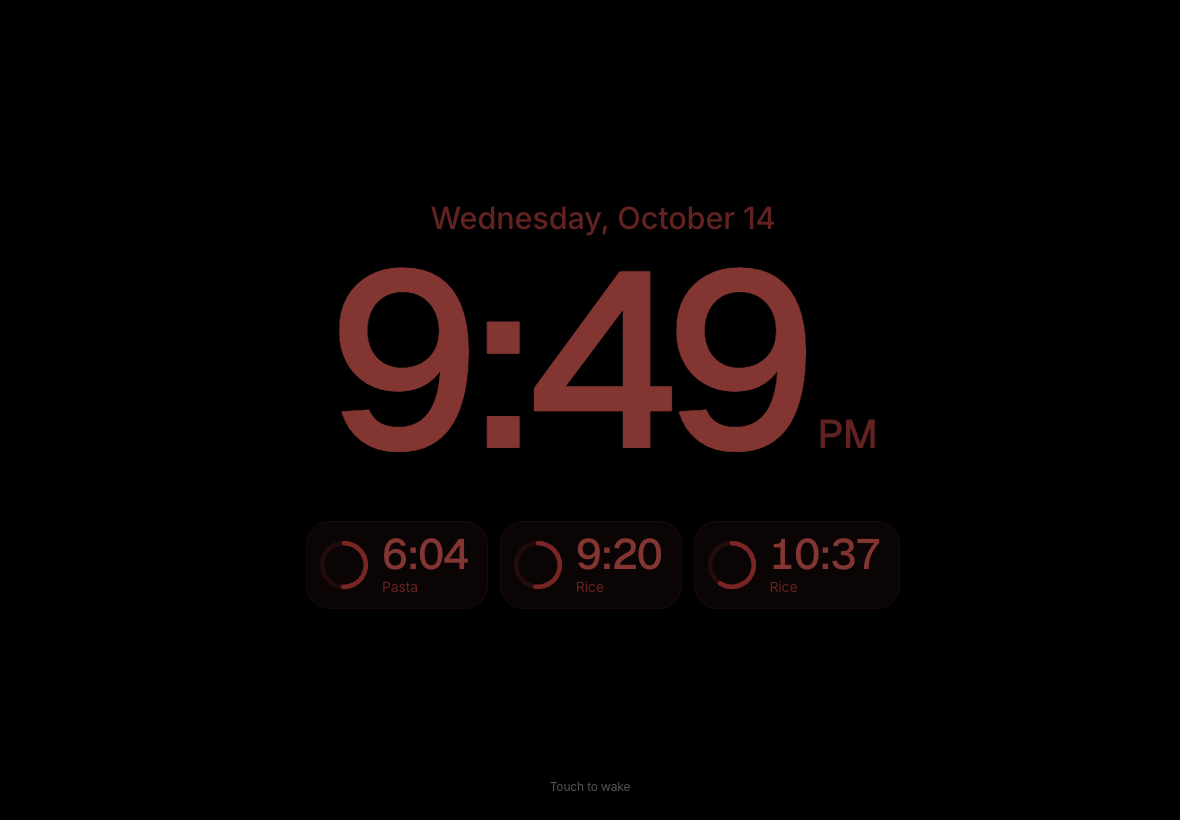
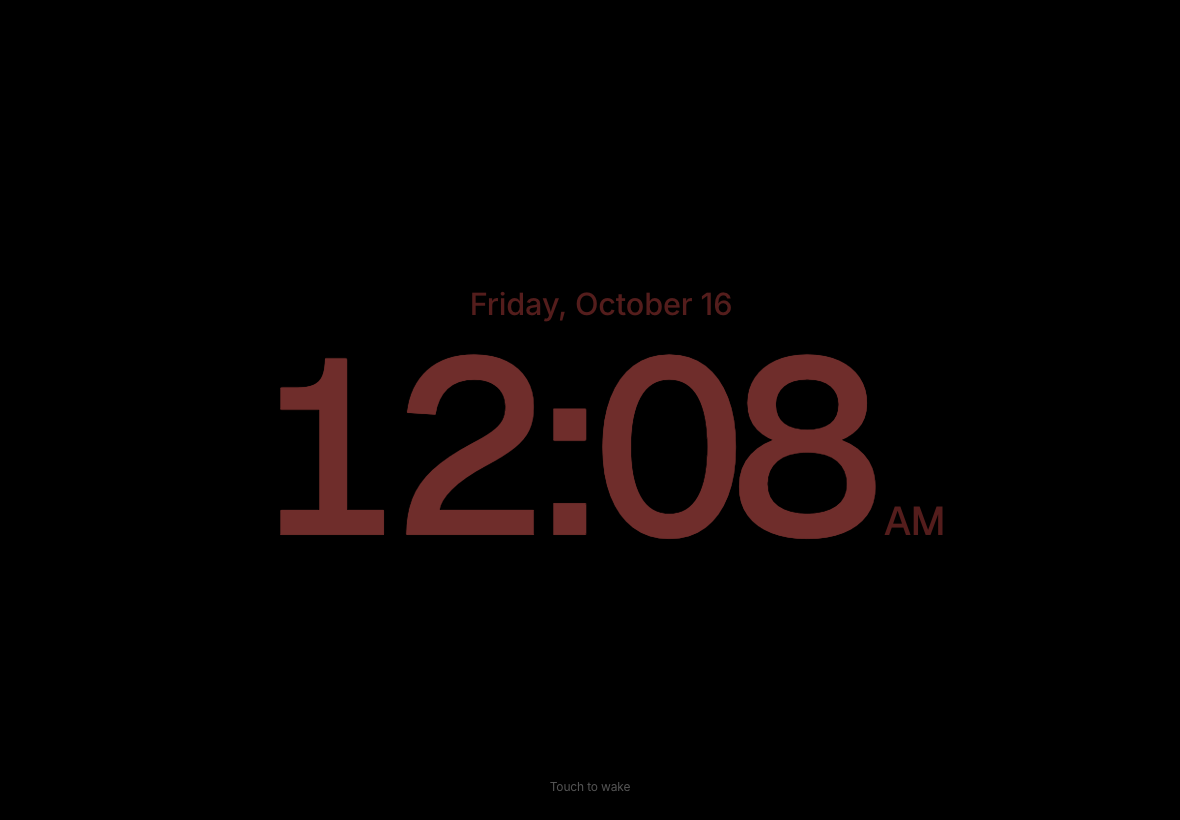
Real diagrams, a share thumbnail, and screenshots without timers
- docs/diagrams: eight drawn diagrams (how Hearth connects, where it runs,
  a tap end to end, live updates, the wall tablet, Activity, opening the
  home, and the two ways to reach Matter) replace the code-drawn ones.
- A share thumbnail of the dashboard for links, with Open Graph and Twitter
  card metadata.
- Screenshots retaken with no timers or plants; the tall full-page shot and
  the timer, plant, and assistant shots are gone; the wall clock is shown in
  its default and a warm colour.

Changed region(s): [[0.2136, 0.3049, 0.8237, 0.7317], [0.3661, 0.2439, 0.6712, 0.3049]]

diff --git a/src/app/layout.tsx b/src/app/layout.tsx
@@ -8,9 +8,15 @@ import "./globals.css";
 const geist = Geist({ variable: "--font-geist", subsets: ["latin"] });
 const inter = Inter({ variable: "--font-inter", subsets: ["latin"] });
 
+const SITE = process.env.BETTER_AUTH_URL ?? (process.env.VERCEL_PROJECT_PRODUCTION_URL ? `https://${process.env.VERCEL_PROJECT_PRODUCTION_URL}` : "http://localhost:3000");
+const DESCRIPTION = "A calm dashboard for your home: lights, locks, climate, and cameras from Home Assistant and Matter, on any screen.";
+
 export const metadata: Metadata = {
+  metadataBase: new URL(SITE),
   title: { default: "Hearth", template: "%s · Hearth" },
-  description: "A calm dashboard for your home: climate, cameras, lights, and Matter devices.",
+  description: DESCRIPTION,
+  openGraph: { type: "website", siteName: "Hearth", title: "Hearth", description: DESCRIPTION },
+  twitter: { card: "summary_large_image", title: "Hearth", description: DESCRIPTION },
   icons: { icon: "/icon.svg", apple: "/icons/icon-180.png" },
   appleWebApp: { capable: true, title: "Hearth", statusBarStyle: "black-translucent" },
 };

diff --git a/docs/guide.md b/docs/guide.md
@@ -1,17 +1,14 @@
 # How Hearth works
 
-A tour of the app, screen by screen, then how the pieces behind it talk to each other. The diagrams are [Mermaid](https://mermaid.js.org), which GitHub draws in place.
+A tour of the app, screen by screen, then how the pieces behind it fit together.
 
 - [The screens](#the-screens)
-- [The big picture](#the-big-picture)
+- [How Hearth connects](#how-hearth-connects)
 - [Where Hearth runs](#where-hearth-runs)
 - [A tap, end to end](#a-tap-end-to-end)
 - [How every screen stays live](#how-every-screen-stays-live)
-- [Widgets and household items](#widgets-and-household-items)
-- [Timers, from a word to a ring](#timers-from-a-word-to-a-ring)
-- [The wall tablet](#the-wall-tablet)
-- [Activity](#activity)
-- [Automations](#automations)
+- [The wall tablet](#the-wall-tablet-1)
+- [Activity](#activity-1)
 - [Who can open the home](#who-can-open-the-home)
 
 ## The screens
@@ -20,27 +17,21 @@ A tour of the app, screen by screen, then how the pieces behind it talk to each 
 
 The dashboard is a grid you build yourself. It starts empty; **Add tile** picks what a tile is, **Edit** drags, resizes, and restyles, and the room tabs filter it. A tile's colour is the device's own colour while it is on: a light's glow, a fan's teal.
 
-![The dashboard](screenshots/dashboard-full.png)
+![The dashboard](screenshots/dashboard.png)
 
-![Dashboard in dark mode](screenshots/dashboard-dark.png)
+![The dashboard in dark mode](screenshots/dashboard-dark.png)
 
-<p align="center"><img src="screenshots/phone.png" alt="Dashboard on a phone" width="390"></p>
+<p align="center"><img src="screenshots/phone.png" alt="The dashboard on a phone" width="390"></p>
 
-In **Edit**, each tile has a **Customize** button: its size, icon, colour, what press and hold does, and settings that belong to its kind, such as timer presets or an energy price.
+The things you reach for most sit one tap away: lights that dim and glow in their own colour, plugs, the front door, and the garage.
+
+![Quick controls](screenshots/quick-controls.png)
+
+### Customize a tile
+
+In **Edit**, each tile has a **Customize** button: its size, icon, colour, what press and hold does, and settings that belong to its kind. An on/off device can be shown as a light, a switch, or a fan, for a light switch Home Assistant files as a fan.
 
 ![Customizing a tile](screenshots/customize.png)
-
-### Household widgets
-
-Widgets keep the things a household juggles: bins, medications, notes, plants, packages, Wi-Fi for guests, and timers. They save the moment you change them, so a note or a plant shows up straight away on every screen.
-
-![Timers side by side](screenshots/timers.png)
-
-![Plants in a grid](screenshots/plants.png)
-
-- **Timers**: one timer fills its tile as a dial. Two to four sit side by side, each in its own colour, and the dial itself starts and pauses. Presets ("Eggs, 7 min") are set once per tile under Customize and sit before the plain lengths.
-- **Plants**: as many to a row as the tile is wide, thirstiest first. Tap the drop when you water one.
-- **Medications**: what is left today first, missed doses flagged, and the supply counting down as doses are ticked off.
 
 ### Activity
 
@@ -58,9 +49,7 @@ When, only if, then: a time, sunrise or sunset, or a device changing; only after
 
 ### The assistant and voice
 
-**Ask Hearth** (or Cmd or Ctrl J) opens a chat; the microphone beside it starts listening straight away. "Set a 10 minute timer for the pasta" works on the device itself, with no AI key. Everything else ("dim the kitchen to 30%") goes to the assistant you connect in Settings. While Hearth listens, a glow from [voice-glow](https://libraries.dev) rises with your voice.
-
-![Assistant](screenshots/assistant.png)
+**Ask Hearth** (or Cmd or Ctrl J) opens a chat; the microphone beside it starts listening straight away. Everyday requests ("dim the kitchen to 30%") go to the assistant you connect in Settings. While Hearth listens, a glow from [voice-glow](https://libraries.dev) rises with your voice.
 
 <p align="center"><img src="screenshots/voice.png" alt="The voice glow while Hearth listens" width="440"></p>
 
@@ -72,73 +61,24 @@ Connections, cameras, calendars, assistants, alerts, the household, the wall tab
 
 ### The wall tablet
 
-Turn on **Settings, Wall tablet** on the tablet itself. It keeps the screen on, rests on the date over a large clock with the running timers and what needs doing next as cards, turns a dim red at night, and brings a finished timer up over everything.
+Turn on **Settings, Wall tablet** on the tablet itself. It keeps the screen on and rests on the date over a large clock, in the colour and brightness you pick, turning a dim red at night if you like.
 
-![Wall clock](screenshots/wall-clock.png)
+![The resting clock](screenshots/wall-clock.png)
 
-![Wall clock at night](screenshots/wall-clock-night.png)
+![The resting clock in a warm colour, dimmer](screenshots/wall-clock-warm.png)
 
-![A timer finished](screenshots/wall-timer-done.png)
+![The resting clock at night](screenshots/wall-clock-night.png)
 
-![A timer finished at night](screenshots/wall-timer-night.png)
-
-## The big picture
+## How Hearth connects
 
 Hearth is one Next.js app. Browsers talk only to Hearth; Hearth talks to everything else, so tokens and passwords never reach a browser.
 
-```mermaid
-flowchart LR
-  subgraph Screens["Your screens"]
-    Phone["Phone"]
-    Laptop["Laptop"]
-    Wall["Wall tablet"]
-  end
-
-  subgraph App["Hearth (Next.js)"]
-    UI["Pages and tiles"]
-    API["API routes and server actions"]
-    Bus["Live bus"]
-    Monitor["Home monitor<br/>(always-on servers only)"]
-  end
-
-  DB[("Postgres<br/>Neon, Docker, or PGlite")]
-
-  subgraph Home["Your home"]
-    HA["Home Assistant"]
-    Matter["Matter Server"]
-    go2rtc["go2rtc"]
-    Devices["Lights, locks, sensors,<br/>speakers, cameras"]
-  end
-
-  subgraph Cloud["Services"]
-    AI["Claude, ChatGPT, Gemini,<br/>Grok, Groq, Muse"]
-    Weather["Open-Meteo"]
-    Cal["Google Calendar, iCal"]
-    Push["Web Push"]
-  end
-
-  Screens -- "HTTPS pages, fetch,<br/>Server-Sent Events" --> UI
-  UI --> API
-  API <--> DB
-  API -- "REST + WebSocket" --> HA
-  API -- "WebSocket :5580" --> Matter
-  API -- "WebRTC signalling" --> go2rtc
-  HA --> Devices
-  Matter --> Devices
-  go2rtc --> Devices
-  API --> AI
-  API --> Weather
-  API --> Cal
-  Monitor --> Push
-  Push -. "alerts" .-> Phone
-  HA -- "state_changed" --> Bus
-  Bus -- "fresh snapshot" --> Screens
-```
+![How Hearth connects](diagrams/overview.png)
 
 | Piece | What it does | Where it lives |
 | --- | --- | --- |
 | Pages and tiles | What you see and tap | `src/app`, `src/components` |
-| API routes and server actions | Every read and write, each one checking who you are first | `src/app/api`, `src/lib/actions.ts`, `src/lib/widget-actions.ts` |
+| API routes and server actions | Every read and write, each checking who you are first | `src/app/api`, `src/lib/actions.ts`, `src/lib/widget-actions.ts` |
 | Providers | One adapter per integration, all speaking Hearth's `Device` and `DeviceCommand` | `src/lib/integrations` |
 | Live bus | Tells open screens something changed | `src/lib/live/bus.ts`, `src/app/api/home/stream` |
 | Home monitor | History, the activity log, alerts, and automations | `src/lib/monitor` |
@@ -146,176 +86,36 @@ flowchart LR
 
 ## Where Hearth runs
 
-The same code runs in two shapes. The difference is whether a process stays up between requests.
+The same code runs hosted or at home. The difference is whether a server stays awake between requests. Hosted on Vercel, Hearth reaches Home Assistant over the internet, so give Home Assistant a public address with a [Tailscale Funnel](https://tailscale.com/kb/1223/funnel) or Home Assistant Cloud.
 
-```mermaid
-flowchart TB
-  subgraph Vercel["On Vercel (serverless)"]
-    V1["Each request may start a fresh copy"]
-    V2["Home Assistant must be reachable from the internet:<br/>Nabu Casa or a Tailscale Funnel"]
-    V3["No monitor: Activity reads Home Assistant's logbook instead"]
-  end
-  subgraph Docker["At home (Docker or npm start)"]
-    D1["One process, always on"]
-    D2["Reaches homeassistant.local directly"]
-    D3["Monitor records history, logs activity,<br/>sends alerts, runs automations"]
-  end
-```
-
-| | Vercel | Always-on server |
-| --- | --- | --- |
-| Dashboard, controls, widgets, timers, voice | Yes | Yes |
-| Activity | From Home Assistant's logbook | Hearth's own log and Home Assistant's, merged |
-| Automations, alerts, sensor history | No | Yes |
-| Reaching Home Assistant | A public address | The local address |
-
-On Vercel, Hearth's servers call Home Assistant from the internet, so `http://homeassistant.local:8123` cannot work. A [Tailscale Funnel](https://tailscale.com/kb/1223/funnel) gives Home Assistant a public HTTPS address without opening a port on your router:
-
-```mermaid
-flowchart LR
-  Vercel["Hearth on Vercel"] -- "HTTPS" --> Funnel["https://homeassistant.your-tailnet.ts.net<br/>(Tailscale Funnel)"]
-  Funnel -- "encrypted tunnel" --> Pi["Home Assistant<br/>at home, port 8123"]
-```
+![Where Hearth runs](diagrams/hosting.png)
 
 ## A tap, end to end
 
-Pressing a light tile shows the change at once, then confirms it. If the device refuses, the tile rolls back.
+Pressing a tile shows the change at once, then confirms it. If the device refuses, the tile goes back.
 
-```mermaid
-sequenceDiagram
-  autonumber
-  participant You
-  participant Tile as Tile (browser)
-  participant Route as /api/devices/[id]
-  participant HA as Home Assistant
-  participant Light
-  You->>Tile: tap
-  Tile->>Tile: show it on straight away
-  Tile->>Route: POST { type: "power", on: true }
-  Route->>Route: who are you, may you, is it sensitive?
-  Route->>HA: light.turn_on
-  HA->>Light: Zigbee, Wi-Fi, or Matter
-  HA-->>Route: done
-  Route-->>Tile: 200
-  HA--)Route: state_changed (WebSocket)
-  Route--)Tile: fresh snapshot to every open screen
-```
-
-Unlocking a door, opening a garage, and disarming the alarm are **sensitive**: the server only runs them after a hold to confirm or the household PIN, as the owner chose in Settings. Automations, scenes, and the assistant can never run them.
+![A tap, end to end](diagrams/tap.png)
 
 ## How every screen stays live
 
-Each page opens **one** Server-Sent Events stream, however many tiles it shows. When anything changes, the server rebuilds the home once and sends the new snapshot to every open screen.
+Each page opens one Server-Sent Events stream, however many tiles it shows. When anything changes, the server rebuilds the home once and sends it to every open screen. A connection that misses one answer keeps its last devices on screen for two minutes before Hearth says it is not responding.
 
-```mermaid
-flowchart LR
-  HAws["Home Assistant<br/>WebSocket"] -- "state_changed" --> Mirror["In-memory mirror"]
-  MatterWs["Matter Server<br/>events"] --> Mirror
-  Actions["Your taps, edits,<br/>the assistant"] -- "publish" --> Bus["Live bus"]
-  Mirror -- "publish" --> Bus
-  Bus -- "a few times a second at most" --> Stream["/api/home/stream"]
-  Stream --> A["Phone"]
-  Stream --> B["Laptop"]
-  Stream --> C["Wall tablet"]
-```
-
-If the stream drops, the browser reconnects by itself and checks every 15 seconds until it is back. A pushed snapshot waits while one of your own taps is still on its way, so a switch never flickers back.
-
-## Widgets and household items
-
-Notes, plants, medications, timers, and the rest are rows in one table, `widget_item`, each checked against its kind's schema on every write (`src/lib/widgets/items.ts`). A Wi-Fi password is sealed before it is stored.
-
-```mermaid
-sequenceDiagram
-  participant You
-  participant Page as useHome (browser)
-  participant Action as Server action
-  participant DB as Postgres
-  You->>Page: add a note
-  Page->>Page: show it now, with a stand-in id
-  Page->>Action: saveWidgetItem("note", data)
-  Action->>DB: validate, insert
-  Action-->>Page: { ok, id }
-  Page->>Page: swap the stand-in id for the real one
-  Note over Page: if the save fails, the note is taken back off the board
-```
-
-## Timers, from a word to a ring
-
-A timer is a row with an end time, so every screen counts down to the same moment and a timer keeps running with every screen closed.
-
-```mermaid
-flowchart TB
-  Say["'Set a 10 minute timer for the pasta'"] --> Parse["parseTimerRequest<br/>(on the device)"]
-  Tap["A preset or a length on the tile"] --> Save
-  Parse --> Save["saveItem: endsAt = now + 10 min"]
-  Save --> All["Every screen counts down"]
-  All -- "endsAt passes" --> Done{"Wall tablet?"}
-  Done -- "yes" --> Takeover["Full-screen alert, louder chime,<br/>rings until dismissed"]
-  Done -- "no" --> Banner["A banner at the top"]
-  Takeover --> Choice["+1 min, Restart, or Dismiss"]
-  Banner --> Choice
-```
-
-Voice uses the browser's own speech recognition. Timer requests never leave the device; anything else goes to the assistant.
+![How every screen stays live](diagrams/live.png)
 
 ## The wall tablet
 
-Wall tablet mode is a setting on the tablet itself, kept in that browser, because each tablet hangs somewhere different.
+Wall tablet mode is a setting on the tablet itself, kept in that browser, because each tablet hangs somewhere different. While it rests, the clock drifts a few pixels each minute so nothing burns into the screen.
 
-```mermaid
-stateDiagram-v2
-  [*] --> Awake
-  Awake --> Resting: no touch for the idle minutes
-  Resting --> Awake: touch, or a chosen motion or door sensor
-  Awake --> Dimmed: the night window starts
-  Dimmed --> Awake: the night window ends
-  Resting --> TimerDone: a timer finishes
-  Awake --> TimerDone: a timer finishes
-  Dimmed --> TimerDone: a timer finishes, shown in dim red
-  TimerDone --> Awake: Dismiss, Restart, or +1 min
-```
-
-While it rests, the clock drifts a few pixels each minute so nothing burns into the screen, and running timers sit under it. It asks the browser to keep the screen on.
+![The wall tablet](diagrams/wall.png)
 
 ## Activity
 
-On an always-on server, the monitor writes what changed into Hearth's own log as it happens, credited to whoever caused it. Home Assistant keeps a logbook too, of everything: the app, its automations, the switch on the wall. Activity reads both and merges them, so it works on Vercel as well.
+On an always-on server, the monitor writes what changed into Hearth's own log, credited to whoever caused it. Home Assistant keeps a logbook too, of everything. Activity reads both and merges them, so it works on Vercel as well.
 
-```mermaid
-flowchart LR
-  Own[("Hearth's log<br/>activity table")] --> Merge
-  Logbook["Home Assistant<br/>/api/logbook"] --> Words["Worded like Hearth's entries,<br/>credited to a person or automation"]
-  Words --> Merge["Merge, newest first"]
-  Merge --> Dedupe["Drop Home Assistant's copy of<br/>a change Hearth already logged"]
-  Dedupe --> Page["Activity, 12 hours a page"]
-```
-
-## Automations
-
-The monitor checks device rules on every change and clock and sun rules every 30 seconds. A snoozed rule is skipped until its time passes, then runs again by itself; a scheduled time that fell inside the snooze is not caught up.
-
-```mermaid
-flowchart LR
-  Change["A device changes"] --> Rules
-  Clock["Every 30 seconds"] --> Rules["Enabled rules,<br/>not snoozed"]
-  Rules --> Conditions{"Only if...<br/>conditions hold?"}
-  Conditions -- "yes" --> Run["Control devices, run a scene,<br/>or send an alert"]
-  Conditions -- "no" --> Skip["Nothing"]
-  Run --> Log["Activity: ran, or what went wrong"]
-```
+![Activity, from both sides](diagrams/activity.png)
 
 ## Who can open the home
 
-```mermaid
-flowchart TB
-  Press["Unlock, open, or disarm"] --> Method{"Settings, Doors and alarm"}
-  Method -- "Hold to confirm" --> Hold["Press and hold the button"]
-  Method -- "Household PIN" --> Pin["Enter the PIN"]
-  Pin --> Check["The server checks it;<br/>five wrong tries lock it for five minutes"]
-  Hold --> Run["Runs"]
-  Check --> Run
-  Alarm["An alarm with its own code"] --> Code["Always asks for that code"]
-```
+![Who can open the home](diagrams/opening.png)
 
 Guests can be given pages to see, but never unlock or open anything. Members share everything with the owner.

diff --git a/README.md b/README.md
@@ -38,15 +38,15 @@ The thermostat glows warm from the top when you raise it and cool from the botto
 
 ![Automations](docs/screenshots/automations.png)
 
-**A wall tablet at rest**: the date, a clock you can read across the room, and the timers that are running.
+**A wall tablet at rest**: the date and a clock you can read across the room, in the colour and brightness you choose.
 
-![Wall clock with timers](docs/screenshots/wall-clock.png)
+![Wall clock](docs/screenshots/wall-clock.png)
 
-**When a timer finishes**, it rises over everything until someone answers it.
+**How it fits together**: your screens only talk to Hearth, and Hearth talks to everything else.
 
-![Timer finished](docs/screenshots/wall-timer-done.png)
+![How Hearth connects](docs/diagrams/overview.png)
 
-**New here?** [docs/guide.md](docs/guide.md) walks through every screen and shows, with diagrams, how your screens, Hearth, the database, Home Assistant, and your devices talk to each other.
+**New here?** [docs/guide.md](docs/guide.md) walks through every screen and shows, in pictures, how your screens, Hearth, the database, Home Assistant, and your devices talk to each other.
 
 ## What it does
 
@@ -146,13 +146,7 @@ Home Assistant does not speak Matter inside its own process. Its Matter integrat
 
 Hearth can reach those devices along two paths. Pick one per device.
 
-```
-1. Through Home Assistant (recommended if you run it)
-   Hearth ──REST + token──▶ Home Assistant ──▶ Matter integration ──WebSocket──▶ Matter Server ──▶ device
-
-2. Straight to the Matter Server
-   Hearth ──WebSocket :5580──────────────────────────────────────────────────▶ Matter Server ──▶ device
-```
+![Two ways to reach Matter devices](docs/diagrams/matter.png)
 
 **Path 1, through Home Assistant.** Hearth reads `/api/states` and calls services such as `light.turn_on` with a long-lived access token. It never speaks Matter itself; it sees Home Assistant entities. You get every device Home Assistant knows about, Matter or not (Zigbee, Z-Wave, Wi-Fi), with Home Assistant's names and areas.
 
